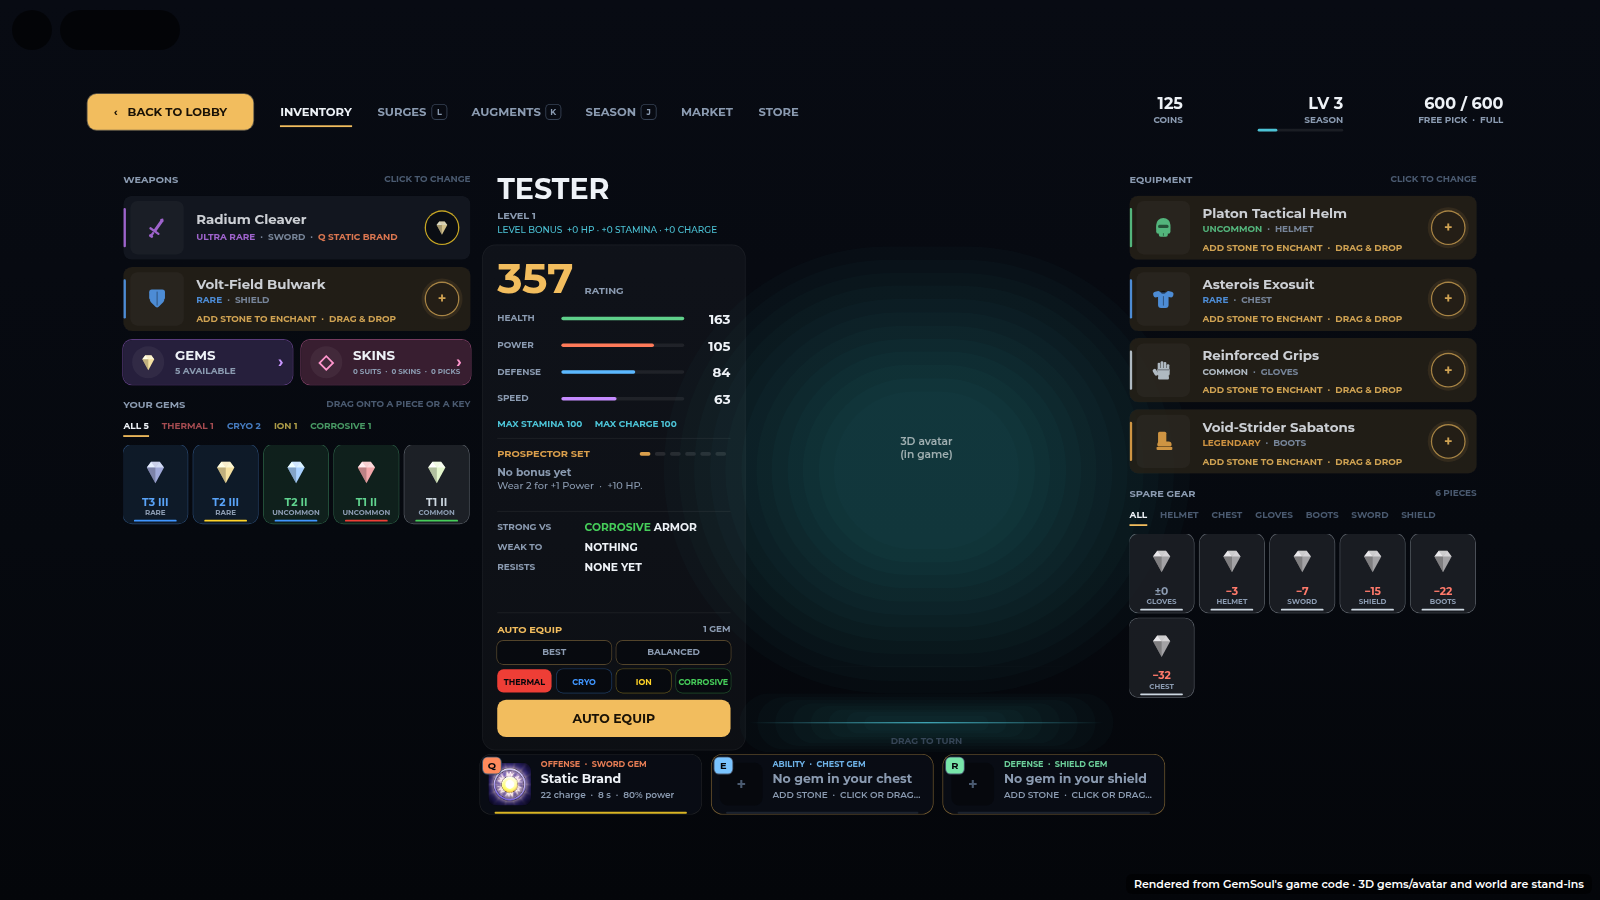
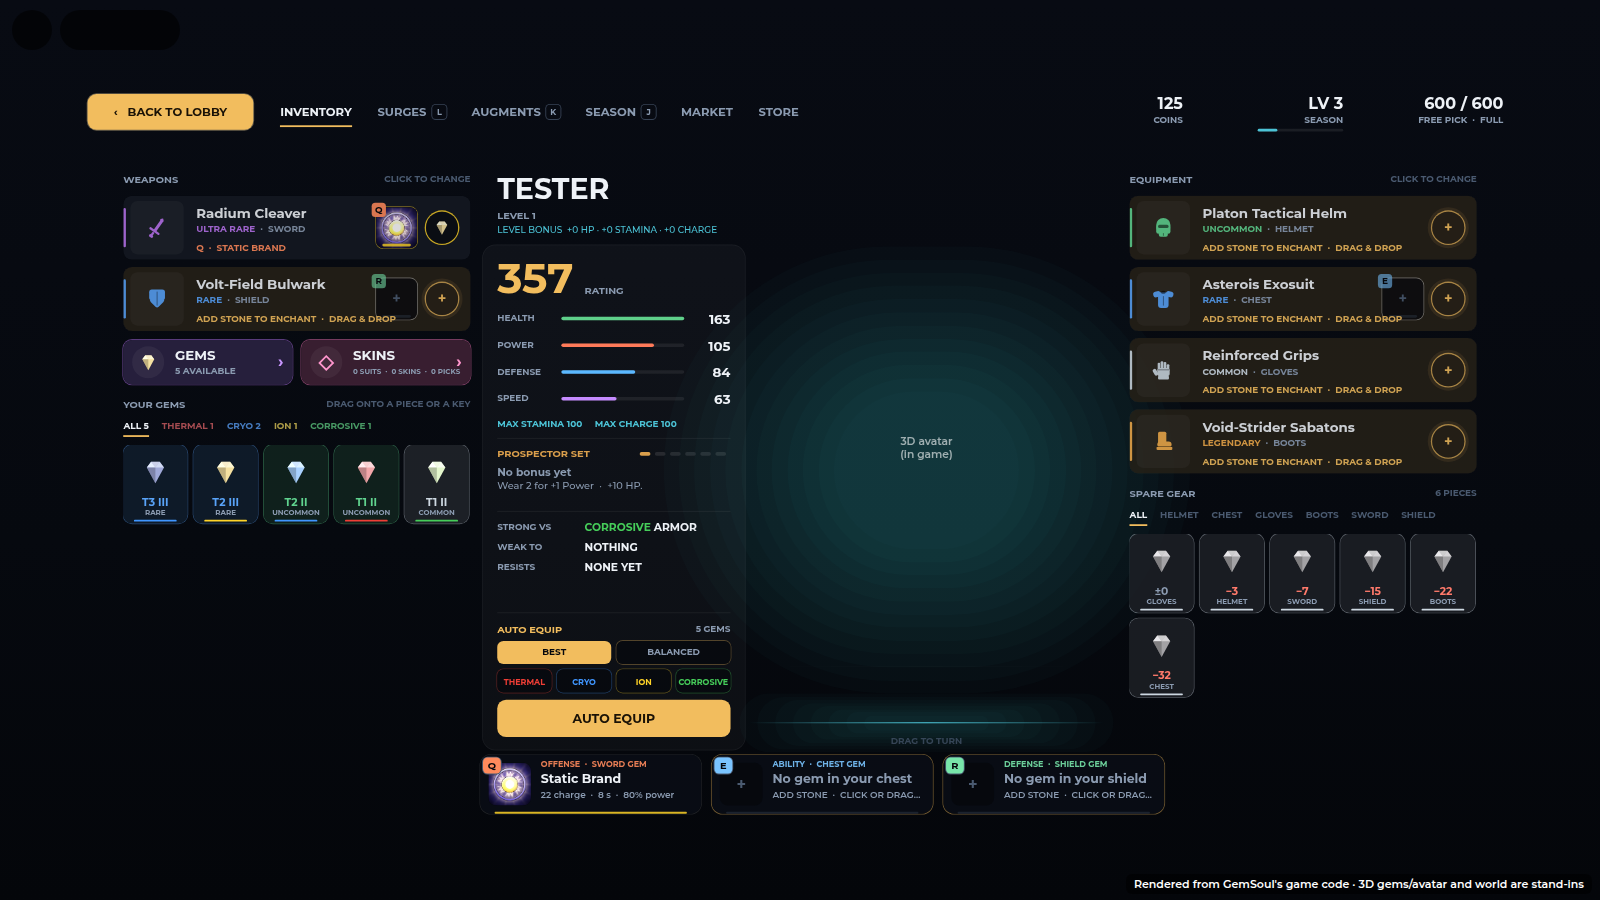
Inventory: the surge each Q/E/R gem gives, in its sword, chest and shield row
The sword's, chest's and shield's rows show their key's surge left of the
gem socket, as the old layout did: the ability's icon (the Q/E/R cards'
art), its key, a line in the gem's colour, and its name on a line of its
own. An empty socket shows the key alone.

Claude-Session: https://claude.ai/code/session_01M9AaiFqQ2dWL5tTu8tuKaL

Changed region(s): [[0.125, 0.2178, 0.2812, 0.28], [0.3125, 0.6844, 0.4062, 0.7778], [0.2188, 0.3111, 0.25, 0.3422]]

diff --git a/docs/inventory.md b/docs/inventory.md
@@ -15,6 +15,13 @@ armor and spare gear on the right, Q / E / R along the bottom.
 - **WEAPONS**: your sword and your shield, each a row with its gem socket.
   Click one and the right column turns into that piece, as an armor row
   does.
+- **The surge in the row**: the sword's, chest's and shield's rows show the
+  surge their gem gives Q, E or R, left of the socket: its icon (the same
+  art as the Q / E / R cards), its key, a line in the gem's colour, and its
+  name on a line of its own under the piece's rarity (`Q · STATIC BRAND`).
+  With no gem, the tile is empty but for its key.
+
+![The rows' surges on a phone](inventory/surge-rows-phone.png)
 - **GEMS** (the gem window) and **SKINS** (the Wardrobe), side by side.
 - **YOUR GEMS**: every loose gem you have, rarest first. A tab per element
   (`ALL 5 · THERMAL 1 · CRYO 2 · ION 1 · CORROSIVE 1`, each in its colour).
@@ -98,5 +105,5 @@ moves onto it.") and tries the piece on with the slot's gem.
 | `Systems/Forge` | `"AutoEquip"`: checks the mode and `Combat.canChangeBuild`, equips the plan's gear, then its gems (`Enchanting.canEnchant`) |
 | `Systems/PlayerData` | `equipGear`: the slot's gem moves onto the new piece |
 | `Shared.GemRoller` | `levelLabel(gem)`: `"T3 II"` |
-| `Modules/InventoryV2` | `buildWeapons` (left), `buildLeft` + `buildAuto` (the card), `buildBag` (spare gear), `drawPouch`, `drawBag`, `drawAuto` |
+| `Modules/InventoryV2` | `buildRow` (each row; the sword's, chest's and shield's `SurgeTile`, drawn in `drawRows`), `buildWeapons` (left), `buildLeft` + `buildAuto` (the card), `buildBag` (spare gear), `drawPouch`, `drawBag`, `drawAuto` |
 | `tests/auto_equip_cases.luau` | every mode, two hands, other miners, gems, a plan applied leaves nothing to do, and the server request |
